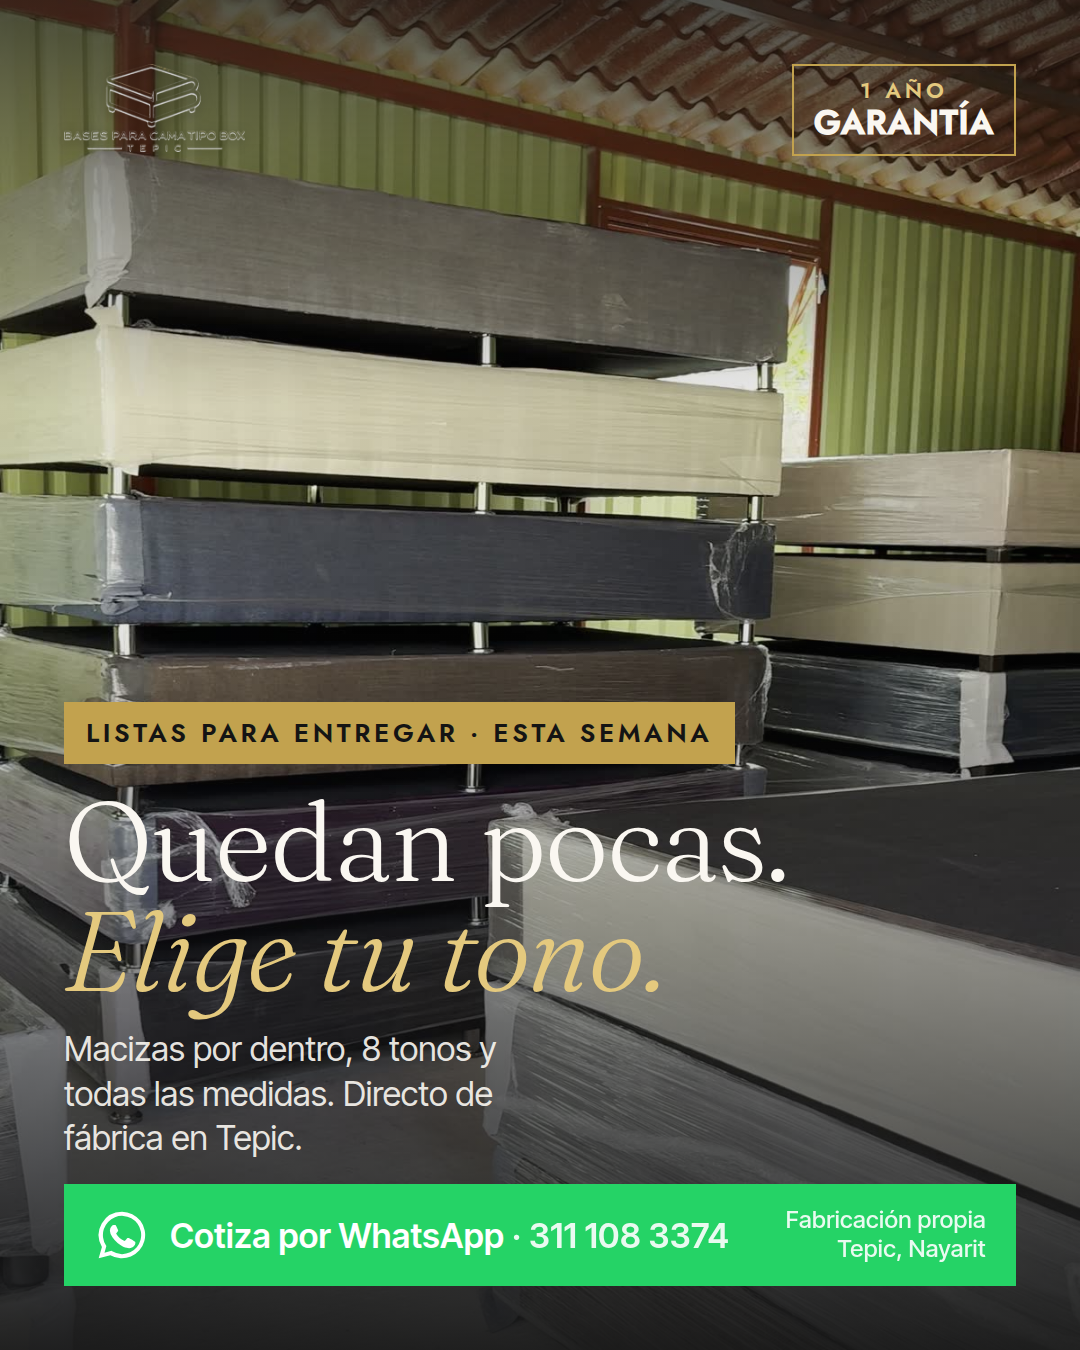
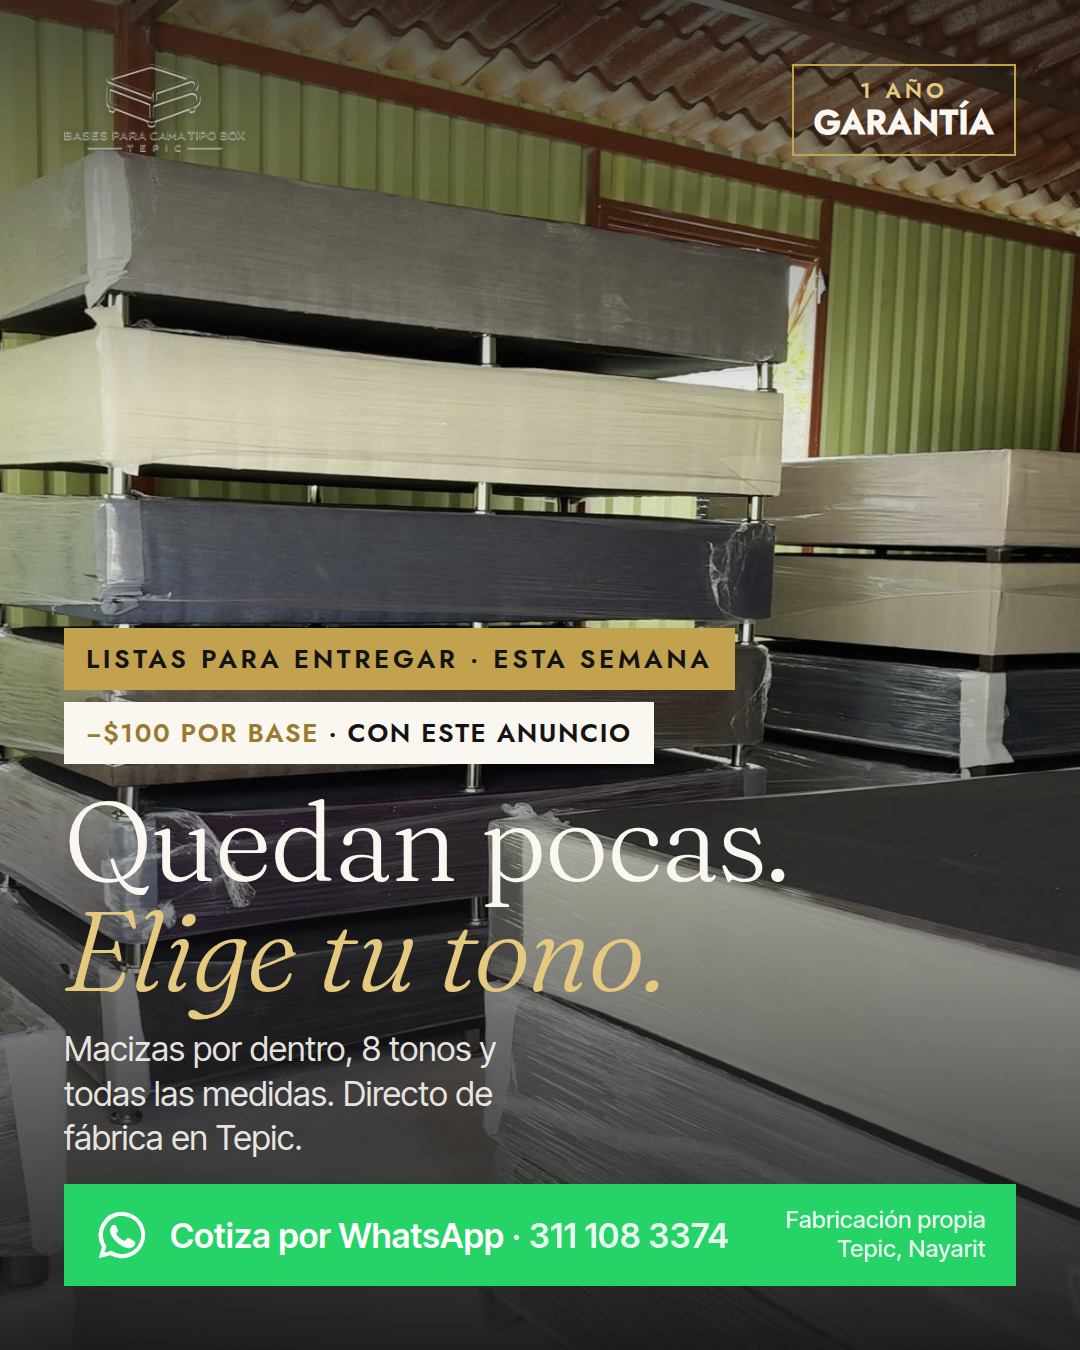
Aplica la promoción única de $100 MXN de descuento por base
- Sello "−$100 por base · con este anuncio" en los 6 creativos.
- Copy, mensaje prellenado y guion de WhatsApp actualizados para
  ofrecer solo ese descuento (sin apilar otras promociones).
- URLs públicas de Vibiz reemplazadas por la versión nueva.

Claude-Session: https://claude.ai/code/session_015C5yqZrfKmVWigQ8mm9PYi

Changed region(s): [[0.0611, 0.4667, 0.7028, 0.5911]]

diff --git a/bases-box-tepic/campana-meta/src/render.py b/bases-box-tepic/campana-meta/src/render.py
@@ -23,7 +23,10 @@ html,body{width:%(w)spx;height:%(h)spx;overflow:hidden;background:var(--char);co
 .mid{display:flex;flex-direction:column;justify-content:flex-end;flex:1;min-height:0;gap:calc(22px*var(--s))}
 .eyebrow{display:inline-flex;align-items:center;gap:14px;font-family:Jost,sans-serif;font-weight:600;font-size:calc(24px*var(--s));letter-spacing:.3em;text-transform:uppercase;color:var(--gold-lt)}
 .eyebrow::before{content:"";width:calc(34px*var(--s));height:2px;background:var(--gold)}
-.pill{align-self:flex-start;background:var(--gold);color:var(--ink);font-family:Jost,sans-serif;font-weight:600;font-size:calc(26px*var(--s));letter-spacing:.14em;text-transform:uppercase;padding:calc(12px*var(--s)) calc(22px*var(--s))}
+.tags{display:flex;flex-wrap:wrap;gap:calc(12px*var(--s));align-items:center}
+.disc{background:var(--paper);color:var(--ink);font-family:Jost,sans-serif;font-weight:600;font-size:calc(26px*var(--s));letter-spacing:.06em;text-transform:uppercase;padding:calc(12px*var(--s)) calc(22px*var(--s))}
+.disc b{font-weight:600;color:#9a7a2e}
+.pill{background:var(--gold);color:var(--ink);font-family:Jost,sans-serif;font-weight:600;font-size:calc(26px*var(--s));letter-spacing:.14em;text-transform:uppercase;padding:calc(12px*var(--s)) calc(22px*var(--s))}
 h1{font-family:Fraunces,Georgia,serif;font-weight:300;font-size:calc(112px*var(--s));line-height:.98;letter-spacing:-.015em;max-width:%(h1w)s}
 h1 em{font-style:italic;color:var(--gold-lt)}
 .sub{font-size:calc(34px*var(--s));line-height:1.3;max-width:24ch;color:rgba(250,247,241,.92)}
@@ -47,18 +50,20 @@ h1 em{font-style:italic;color:var(--gold-lt)}
 ADS = {
  "A-listas": dict(
    bg='<div class="bg"><img src="img/tonos-torre.jpg"></div>', pos="50% 40%", renderY="0",
-   mid='<div class="pill">Listas para entregar · esta semana</div>'
+   mid='<div class="tags"><div class="pill">Listas para entregar · esta semana</div><div class="disc"><b>−$100 por base</b> · con este anuncio</div></div>'
        '<h1>Quedan pocas.<br><em>Elige tu tono.</em></h1>'
        '<p class="sub">Macizas por dentro, 8 tonos y todas las medidas. Directo de fábrica en Tepic.</p>'),
  "B-fabrica": dict(
    bg='<div class="render"><img src="img/base-render-3d.png"></div>', pos="50% 50%", renderY="-14%",
    mid='<div class="eyebrow">Directo de fábrica · sin intermediarios</div>'
+       '<div class="tags"><div class="disc"><b>−$100 por base</b> · con este anuncio</div></div>'
        '<h1>Tu base, hecha <em>en Tepic.</em></h1>'
        '<div class="chips"><div class="chip"><b>Individual</b> 1.00 m</div><div class="chip"><b>Matrimonial</b> 1.35 m</div>'
        '<div class="chip"><b>Queen</b> 1.50 m</div><div class="chip"><b>King</b> 2.00 m</div><div class="chip">Medidas especiales</div></div>'),
  "C-taller": dict(
    bg='<div class="bg"><img src="img/taller-wide.jpg"></div>', pos="50% 62%", renderY="0",
    mid='<div class="eyebrow">Nuestro taller · fotos reales</div>'
+       '<div class="tags"><div class="disc"><b>−$100 por base</b> · con este anuncio</div></div>'
        '<h1>Así se hacen <em>tus bases.</em></h1>'
        '<p class="sub">Se arman, tapizan y empacan aquí mismo. Te la llevamos a domicilio en Tepic.</p>'),
 }

diff --git a/bases-box-tepic/campana-meta/CAMPANA.md b/bases-box-tepic/campana-meta/CAMPANA.md
@@ -1,5 +1,5 @@
 # Campaña Meta Ads · Bases Tipo Box Tepic
-**Objetivo:** vender la producción en existencia vía WhatsApp · **Presupuesto:** $500 MXN · **Duración:** 10 días
+**Objetivo:** vender la producción en existencia vía WhatsApp · **Presupuesto:** $500 MXN · **Duración:** 10 días · **Oferta:** $100 MXN de descuento por base (única promoción)
 
 ## 1. Configuración (Meta Ads Manager)
 
@@ -17,7 +17,7 @@
 | Destino | WhatsApp **311 108 3374** |
 | Anuncios | 3 creativos en un solo conjunto (Meta reparte al que mejor cierre) |
 
-**Regla de oro:** un solo conjunto de anuncios. Con $500 MXN dividir en 2+ conjuntos mata el aprendizaje.
+**Regla de oro:** un solo conjunto de anuncios y una sola oferta ($100 por base; no apilar más descuentos). Con $500 MXN dividir en 2+ conjuntos mata el aprendizaje.
 
 ## 2. Anuncios (copy final)
 
@@ -25,7 +25,7 @@
 - **Texto principal:**
   > Tenemos bases tipo box **LISTAS para entregar esta semana** en Tepic 🛏
   > Macizas por dentro (madera de pino y triplay), 8 tonos y 1 año de garantía. Directo de fábrica, sin intermediarios.
-  > Quedan pocas por tono y medida. Escríbenos y te decimos cuáles hay 👇
+  > Quedan pocas por tono y medida. Menciona este anuncio y te descontamos **$100 por base**. Escríbenos y te decimos cuáles hay 👇
 - **Título:** Bases listas para entrega en Tepic
 - **Descripción:** Individual · Matrimonial · Queen · King · 1 año de garantía
 - **Botón:** Enviar mensaje de WhatsApp
@@ -35,7 +35,7 @@
 - **Texto principal:**
   > ¿Para qué pagarle a un intermediario? 🤔
   > Fabricamos tu base tipo box aquí en Tepic: estructura maciza de pino, tapizado Oxford en 8 tonos y patas cromadas. Individual, matrimonial, queen o king, todas con **1 año de garantía**.
-  > Menciona este anuncio y recibe tu **descuento de bienvenida**. Cotiza en 1 minuto 👇
+  > Menciona este anuncio y te descontamos **$100 por base**. Cotiza en 1 minuto 👇
 - **Título:** Directo de fábrica · Tepic
 - **Descripción:** Cotización en 24 h · Entrega a domicilio
 - **Botón:** Enviar mensaje de WhatsApp
@@ -45,14 +45,14 @@
 - **Texto principal:**
   > Así se ven tus bases antes de llegar a tu casa 👀
   > Fotos reales de nuestro taller en Tepic, sin retoque. Cada base se arma, tapiza y empaca aquí mismo. Por eso la respaldamos 1 año.
-  > Elige tono y medida por WhatsApp y te la llevamos a domicilio 👇
+  > Elige tono y medida por WhatsApp, menciona el anuncio y te descontamos **$100 por base** 👇
 - **Título:** Hechas en Tepic, entregadas en tu casa
 - **Descripción:** 8 tonos · Todas las medidas · Garantía 1 año
 - **Botón:** Enviar mensaje de WhatsApp
 - **Creativo:** `creativos/C-taller-1080x1350.png` · `creativos/C-taller-1080x1080.png`
 
 **Mensaje prellenado de WhatsApp (en el anuncio):**
-`Hola, vi su anuncio en Facebook. ¿Qué bases tienen listas para entrega y en qué tonos?`
+`Hola, vi su anuncio en Facebook con los $100 de descuento. ¿Qué bases tienen listas para entrega y en qué tonos?`
 
 ## 3. Guion de respuesta por WhatsApp (para cerrar)
 
@@ -60,7 +60,7 @@
 |---|---|
 | 1 · Saludo | ¡Hola! 👋 Gracias por escribir. ¿Para qué medida buscas la base: individual, matrimonial, queen o king? |
 | 2 · Existencia | Perfecto. En esa medida hoy tenemos lista en [tonos]. Te mando foto real 📸 |
-| 3 · Precio | El precio es $[X] con entrega en Tepic incluida y 1 año de garantía. Por el anuncio tienes $[Y] de descuento de bienvenida. |
+| 3 · Precio | El precio es $[X] con entrega en Tepic incluida y 1 año de garantía. Por el anuncio te quedan $[X−100]: son **$100 menos por base**. |
 | 4 · Cierre | ¿Te la apartamos? Con $[anticipo] la separamos y te la entregamos [día]. |
 | 5 · Sin respuesta (24 h) | ¡Hola! Solo para avisarte que la base [tono/medida] sigue disponible. ¿La apartamos? |
 
@@ -72,7 +72,7 @@ Responder en **menos de 5 min** durante 9:00–19:00. Cada hora sin contestar ba
 |---|---|---|
 | Costo por conversación | ≤ $25 MXN (≈ 20 chats) | > $40 al día 3 → pausar el anuncio más caro |
 | Chats → cotización | ≥ 70 % | Revisar velocidad de respuesta |
-| Cotización → venta | ≥ 25 % (≈ 4–6 bases) | Ofrecer entrega gratis o apartado |
+| Cotización → venta | ≥ 25 % (≈ 4–6 bases) | Ofrecer apartado con anticipo (no subir el descuento) |
 
 **Día 3:** dejar solo los 2 mejores anuncios. **Día 7:** si CPL ≤ $25, subir a $80/día el resto de la semana.
 
@@ -80,20 +80,20 @@ Responder en **menos de 5 min** durante 9:00–19:00. Cada hora sin contestar ba
 - [ ] WhatsApp Business **311 108 3374** vinculado a la página "Bases Para Cama Tipo Box"
 - [ ] Método de pago activo en la cuenta `act_1706702367227530`
 - [ ] Subir los 6 PNG de `creativos/`
-- [ ] Precios reales listos para contestar (el anuncio no los menciona)
+- [ ] Precios reales listos para contestar (el anuncio solo menciona los $100 de descuento por base, no el precio)
 - [ ] Respuestas rápidas guardadas en WhatsApp Business
 
 > Nota: la landing del repo (`bases-box-tepic/index.html`) aún tiene el número viejo 311 121 6033 y la dirección de Querétaro #285. La campaña usa los datos del sitio en vivo basestipobox.com.
 
-## 6. Creativos ya subidos a Vibiz (URLs públicas)
+## 6. Creativos ya subidos a Vibiz (URLs públicas · versión con −$100 por base)
 
 | Archivo | URL |
 |---|---|
-| A-listas-1080x1350 | https://uhuegcgiysvbcxokebjg.supabase.co/storage/v1/object/public/brand_images/org_3EBMZtsB6ztlUroZXUVzhM5UT4A/1788593613656-uirjt.png |
-| A-listas-1080x1080 | https://uhuegcgiysvbcxokebjg.supabase.co/storage/v1/object/public/brand_images/org_3EBMZtsB6ztlUroZXUVzhM5UT4A/1788593641032-prcxtq.png |
-| B-fabrica-1080x1350 | https://uhuegcgiysvbcxokebjg.supabase.co/storage/v1/object/public/brand_images/org_3EBMZtsB6ztlUroZXUVzhM5UT4A/1788593642809-zi5ce.png |
-| B-fabrica-1080x1080 | https://uhuegcgiysvbcxokebjg.supabase.co/storage/v1/object/public/brand_images/org_3EBMZtsB6ztlUroZXUVzhM5UT4A/1788593644675-xh0zbke.png |
-| C-taller-1080x1350 | https://uhuegcgiysvbcxokebjg.supabase.co/storage/v1/object/public/brand_images/org_3EBMZtsB6ztlUroZXUVzhM5UT4A/1788593646613-vax2yn.png |
-| C-taller-1080x1080 | https://uhuegcgiysvbcxokebjg.supabase.co/storage/v1/object/public/brand_images/org_3EBMZtsB6ztlUroZXUVzhM5UT4A/1788593648439-rutk3e.png |
+| A-listas-1080x1350 | https://uhuegcgiysvbcxokebjg.supabase.co/storage/v1/object/public/brand_images/org_3EBMZtsB6ztlUroZXUVzhM5UT4A/1788621167375-vugt2.png |
+| A-listas-1080x1080 | https://uhuegcgiysvbcxokebjg.supabase.co/storage/v1/object/public/brand_images/org_3EBMZtsB6ztlUroZXUVzhM5UT4A/1788621169404-nnl7ra.png |
+| B-fabrica-1080x1350 | https://uhuegcgiysvbcxokebjg.supabase.co/storage/v1/object/public/brand_images/org_3EBMZtsB6ztlUroZXUVzhM5UT4A/1788621171238-rfsqq.png |
+| B-fabrica-1080x1080 | https://uhuegcgiysvbcxokebjg.supabase.co/storage/v1/object/public/brand_images/org_3EBMZtsB6ztlUroZXUVzhM5UT4A/1788621173775-c26x8c.png |
+| C-taller-1080x1350 | https://uhuegcgiysvbcxokebjg.supabase.co/storage/v1/object/public/brand_images/org_3EBMZtsB6ztlUroZXUVzhM5UT4A/1788621175615-gji70i.png |
+| C-taller-1080x1080 | https://uhuegcgiysvbcxokebjg.supabase.co/storage/v1/object/public/brand_images/org_3EBMZtsB6ztlUroZXUVzhM5UT4A/1788621177614-efr22.png |
 
 Regenerar los PNG: `cd src && python3 render.py` (usa Chromium headless y las fuentes Fraunces / Jost / Inter Tight instaladas en el sistema).
